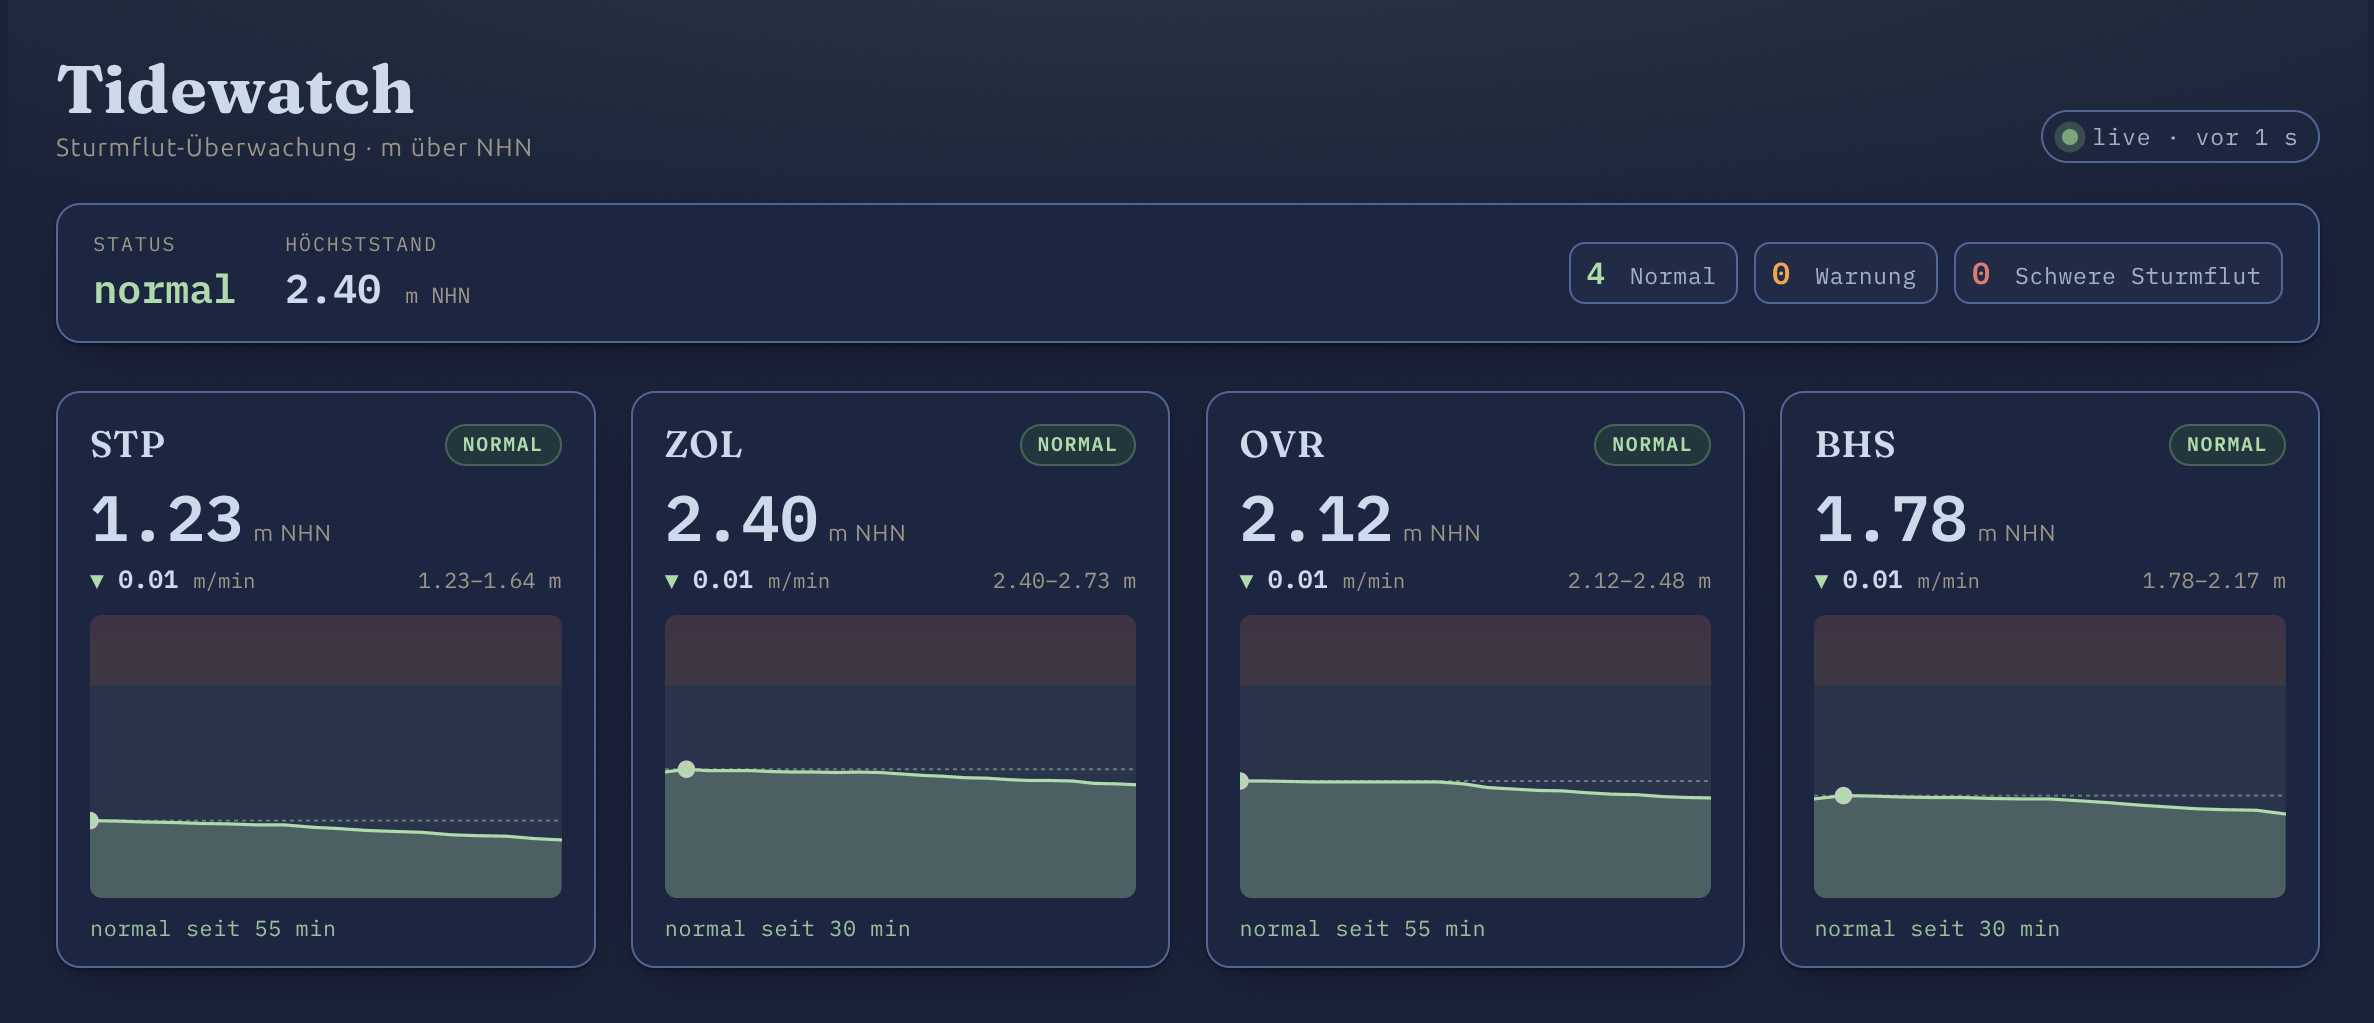
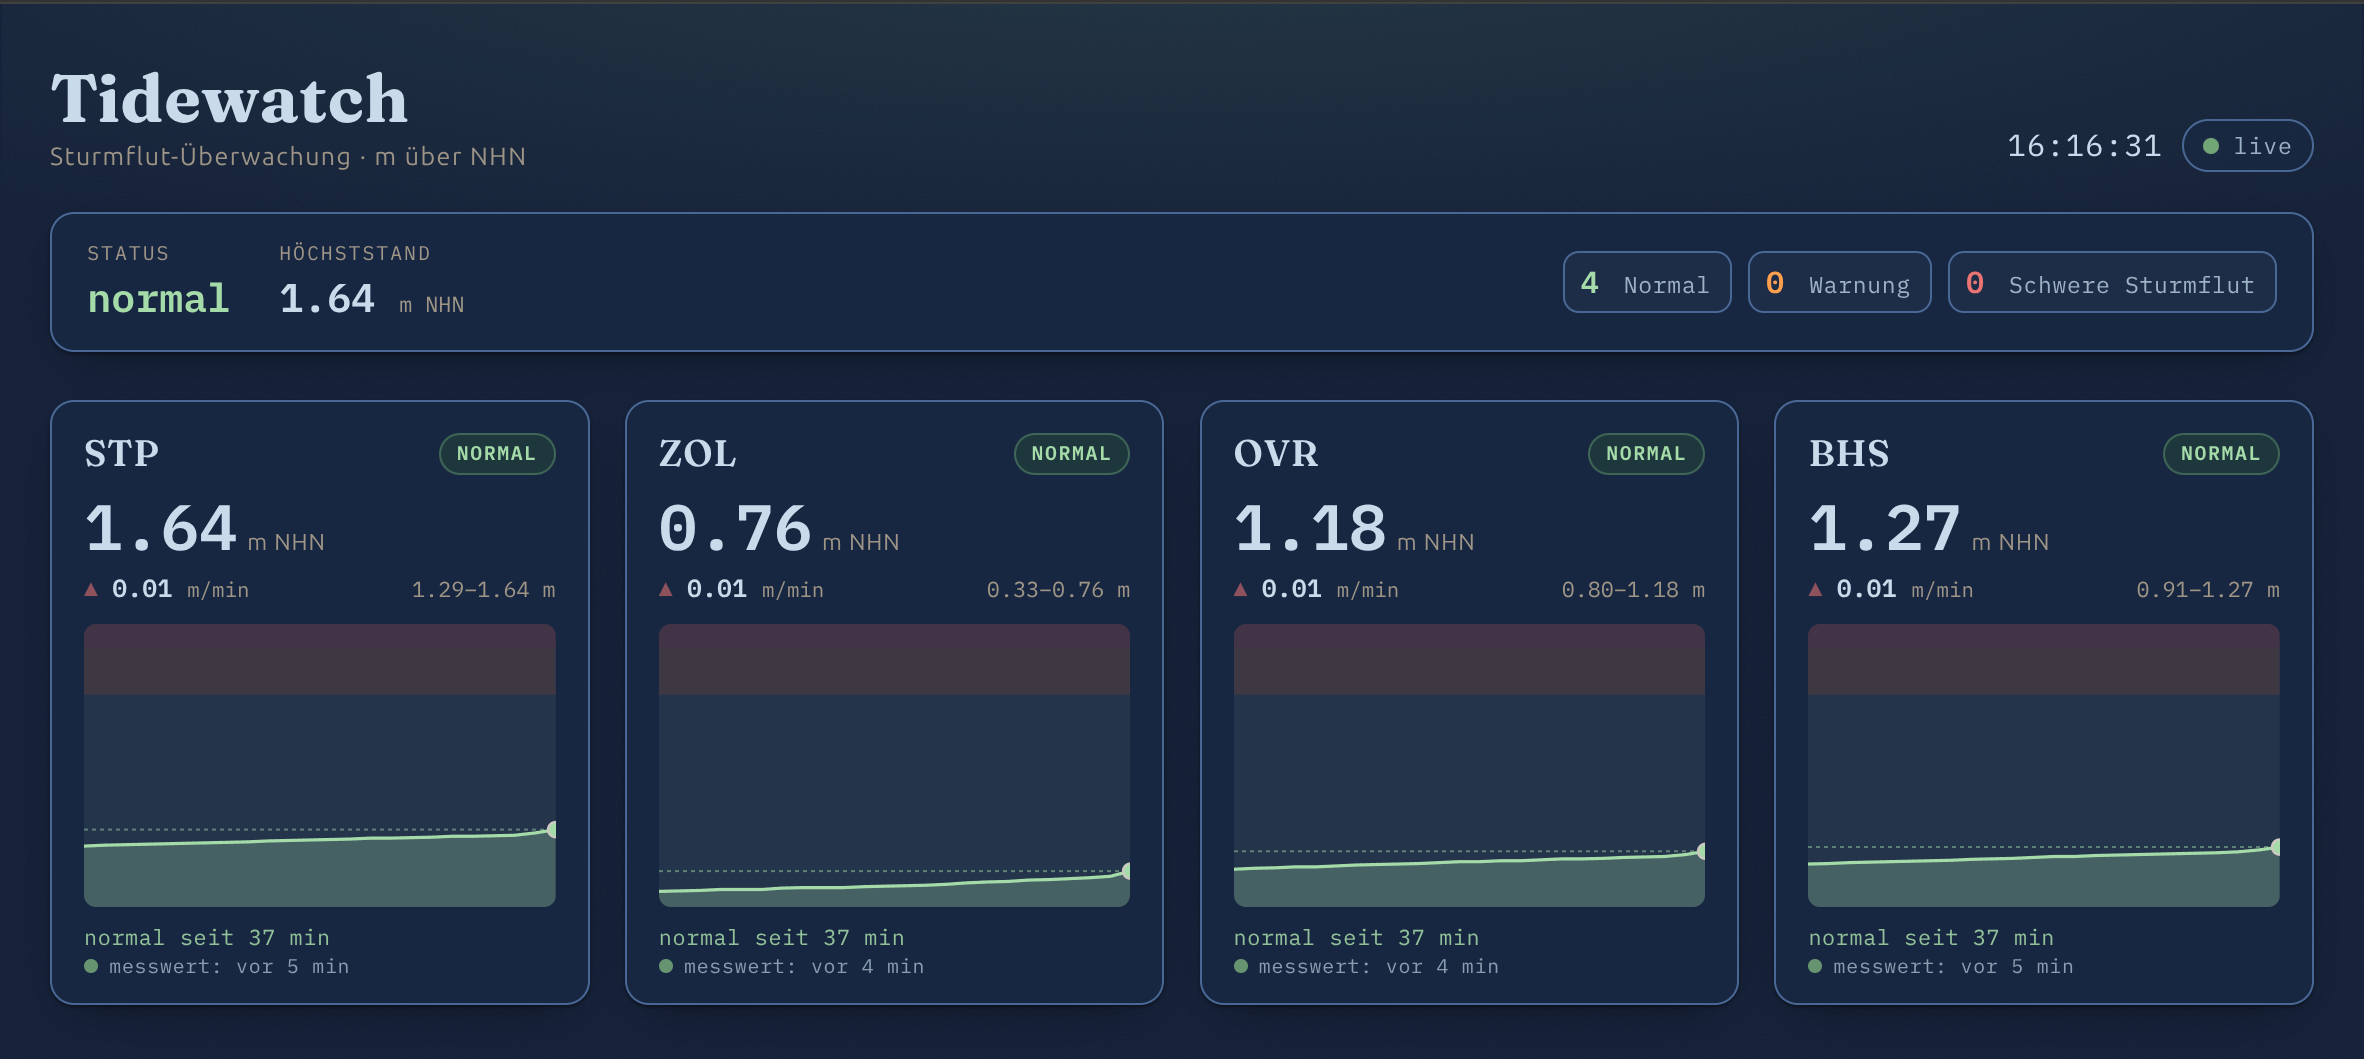
content(port-tidewatch): update for v1.3.0 readability release
- index: project description now names the real WSV/PEGELONLINE Elbe feed alongside the simulator, and reflects v1.3.0 (measurement-age freshness)
- project page: mark M8 reverted, add M9 (v1.3.0) as done, new v1.3.0 section (measurement age over poll age, arrival-based staleness, header clock, local-dev config fix); bump updated date

diff --git a/src/content/projects/port-tidewatch.md b/src/content/projects/port-tidewatch.md
@@ -1,8 +1,8 @@
 ---
 title: "port-tidewatch"
-description: "Ingestion-Service für Pegelstand-Telemetrie von Häfen mit threshold-basiertem Sturmflut-Alerting — orientiert an Hamburgs WADI-Warnsystem. Wahlweise Simulator oder echter WSV/PEGELONLINE-Elbe-Feed, RabbitMQ-Consumer mit Dead-Letter-Handling und ein read-only Angular Dashboard. Bewusst klein gehalten: eine Domain, ein Ingestion-Pfad, end-to-end reliable und observable. Seit v1.2.0 mit echten WSV/PEGELONLINE-Daten und umschaltbarer Datenquelle."
+description: "Ingestion-Service für Pegelstand-Telemetrie von Häfen mit threshold-basiertem Sturmflut-Alerting — orientiert an Hamburgs WADI-Warnsystem. Wahlweise Simulator oder echter WSV/PEGELONLINE-Elbe-Feed, RabbitMQ-Consumer mit Dead-Letter-Handling und ein read-only Angular Dashboard. Bewusst klein gehalten: eine Domain, ein Ingestion-Pfad, end-to-end reliable und observable. Seit v1.2.0 mit echten WSV/PEGELONLINE-Daten und umschaltbarer Datenquelle; v1.3.0 macht die Frische der Werte ehrlich lesbar."
 date: "2026-06-08T19:09:00"
-updated: "2026-06-15T00:00:00"
+updated: "2026-06-16T00:00:00"
 readMin: 5
 draft: false
 ---
@@ -63,11 +63,12 @@ Das Projekt ist in Milestones strukturiert, jeder als kohärenter Zwischenzustan
 | M5        | Deployment: Azure Container Apps → Kubernetes + Argo CD                | <span style="color:oklch(0.55 0.09 75)">abgeschlossen</span> |
 | M6 (v1.1) | Sturmflut-Szenarien, Dashboard-Politur, Alert-Event-Publishing         | <span style="color:oklch(0.55 0.09 75)">abgeschlossen</span> |
 | M7 (v1.2) | Echter PEGELONLINE-Elbe-Feed, umschaltbare Datenquelle (Source-Switch) | <span style="color:oklch(0.55 0.09 75)">abgeschlossen</span> |
-| M8 (v1.3) | Observable OpenTelemetry-Pfad sichtbar machen                          | <span style="color:oklch(0.80 0.13 75)">geplant</span>       |
+| M8        | Observability-Pfad im Dashboard sichtbar machen                        | <span style="color:oklch(0.55 0.02 75)">verworfen (Revert)</span> |
+| M9 (v1.3.0) | Readability: Messwert-Alter statt Poll-Alter, ankunftsbasierte Frische, Header-Uhr | <span style="color:oklch(0.55 0.09 75)">abgeschlossen</span> |
 
 ## Stand
 
-**[v1.2.0](https://github.com/goldbarth/port-tidewatch/releases/tag/v1.2.0) ist da** (15.06.2026) — Milestones M1–M7 abgeschlossen.
+**[v1.3.0](https://github.com/goldbarth/port-tidewatch/releases/tag/v1.3.0) ist da** (16.06.2026) — Milestones M1–M7 und M9 abgeschlossen (M8 verworfen).
 
 Die Basis kam mit [v1.0.0](https://github.com/goldbarth/port-tidewatch/releases/tag/v1.0.0) (11.06.2026, M1–M5): Die Pipeline läuft end-to-end — Simulator → RabbitMQ → Ingestion → State → Dashboard. Gestufte Surge-Evaluation (normal / warning / severe) mit Hysterese, OpenTelemetry-Tracing mit W3C-Context-Propagation über das ganze System, HTTP-API für Gauge-Snapshots und Health-Checks. Unit-Tests für die Evaluation-Logik, Testcontainers-Integration-Tests gegen echtes RabbitMQ. Zwei verifizierte Deployment-Pfade: Kubernetes + Argo CD (GitOps) und Azure Container Apps + Static Web Apps.
 
@@ -75,4 +76,6 @@ v1.1.0 (M6) bringt die Demo-Reife: Der Simulator nutzt jetzt ein Composite-Level
 
 v1.2.0 (M7) bringt echte Daten: Ein PEGELONLINE-Source-Adapter pollt die öffentliche WSV-REST-API für vier Hamburger Elbe-Pegel (St. Pauli, Bunthaus, Over, Zollenspieker) und emittiert dieselben `Reading`-Records wie der Simulator — Centimeter über Pegelnull werden in einem expliziten Mapping-Layer nach Meter NHN umgerechnet (W/100 + PNP-Offset), conditional GET (`If-None-Match`) verhindert Duplikate bei `304`, transiente API-Fehler werden geloggt und retried. Welche Quelle läuft, entscheidet ein einzelner `ReadingSource`-Switch (`Simulator | Pegelonline`) beim Start — fail-fast bei ungültiger Konfiguration. Das frühere Simulator-Projekt wurde dafür zum quellen-neutralen `Tidewatch.Source`-Host (Quellen hinter `IReadingSource`). Deployed (Kubernetes + Azure) läuft der Live-Feed, lokal bleibt der Simulator die dokumentierte Demo.
 
-Als Nächstes (M8 / v1.3): der Observability-Pfad im Dashboard sichtbar gemacht — Latency-Pulse, Jaeger-Deep-Link und ein optionaler Trace-Waterfall.
+v1.3.0 (M9) macht die angezeigten Werte ehrlich lesbar — Readability statt der ursprünglich geplanten Observability-Oberfläche (M8 wurde verworfen, der OpenTelemetry-Pfad bleibt verdrahtet, aber unsichtbar; siehe ADR-003-Amendment). Die Frische-Anzeige zeigt jetzt das Alter des **Messwerts** (`Reading.Timestamp`) statt des letzten Polls — bei PEGELONLINE mit seiner mehrminütigen Publikations-Latenz war ein frischer Poll auf einen alten Messwert vorher fälschlich „live". Der **Stale-Zustand koppelt an den Daten-Zufluss, nicht ans Messwert-Alter**: eine Kachel wird erst orange, wenn *keine neuen* Werte mehr ankommen — gemessen ab der Ankunftszeit, gegen eine aus der inferierten Quell-Cadence abgeleitete Schwelle (`2× cadence`, mit Untergrenze für das Poll-Intervall). So bekommen Simulator (Sekunden) und PEGELONLINE (Minuten) automatisch die passende Schwelle, nichts ist hartkodiert. Dazu eine mitlaufende **Header-Uhr** (`HH:MM:SS`, Europe/Berlin) als Zeitanker und ein Fix, der das Dashboard auf einem frischen Clone lokal lauffähig macht (unaufgelöster `config.json`-Deploy-Platzhalter → same-origin `/api`).
+
+Als Nächstes: die Roadmap jenseits M9 ist offen — der Kern (Pipeline, echte Daten, beide Deploy-Pfade, lesbare Frische) steht.